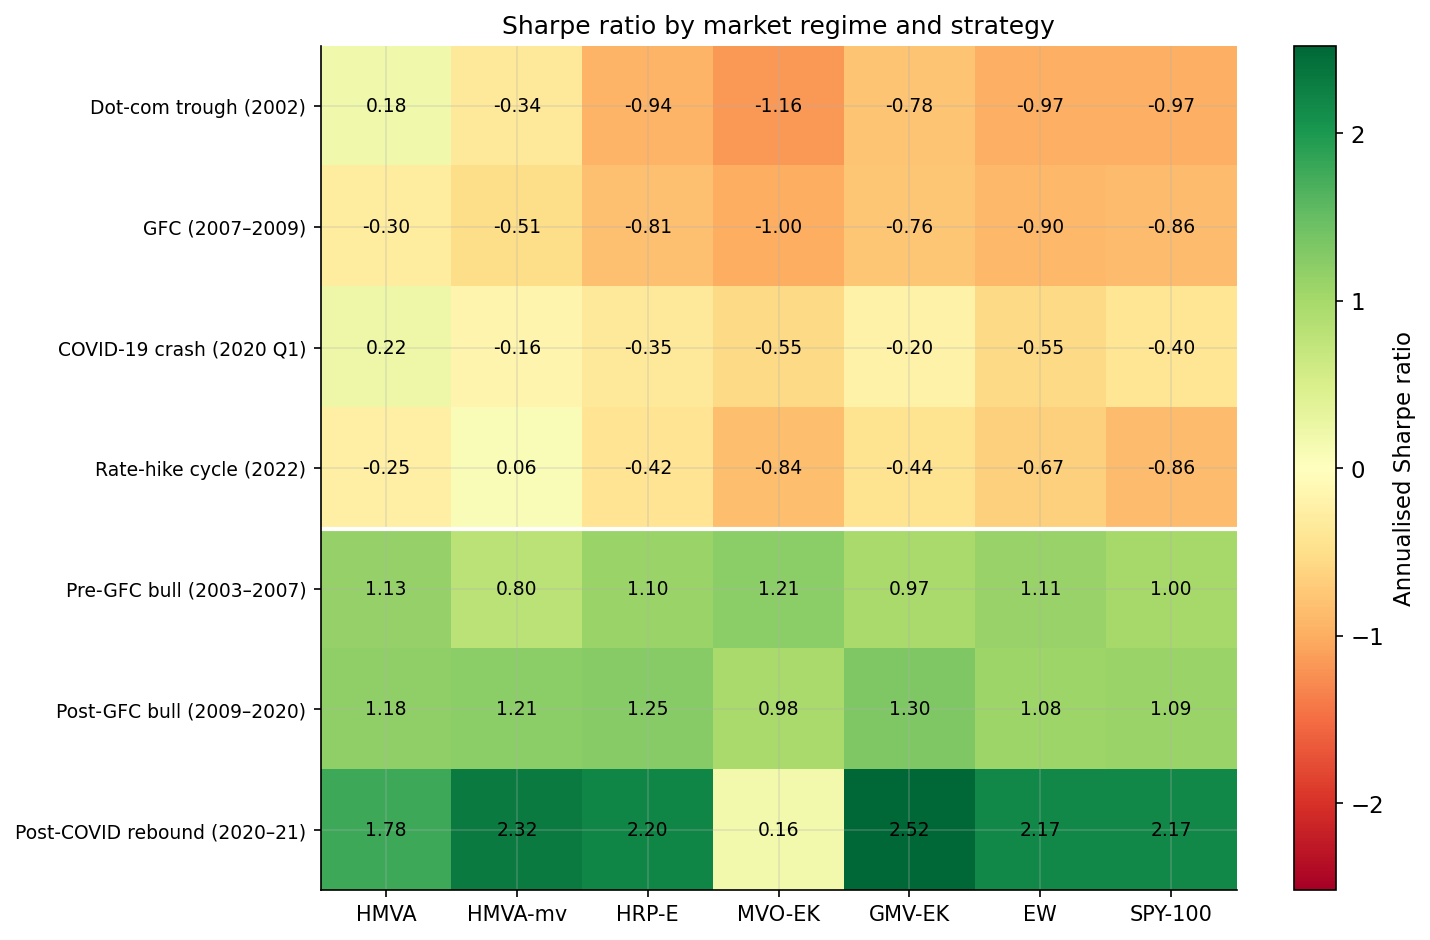
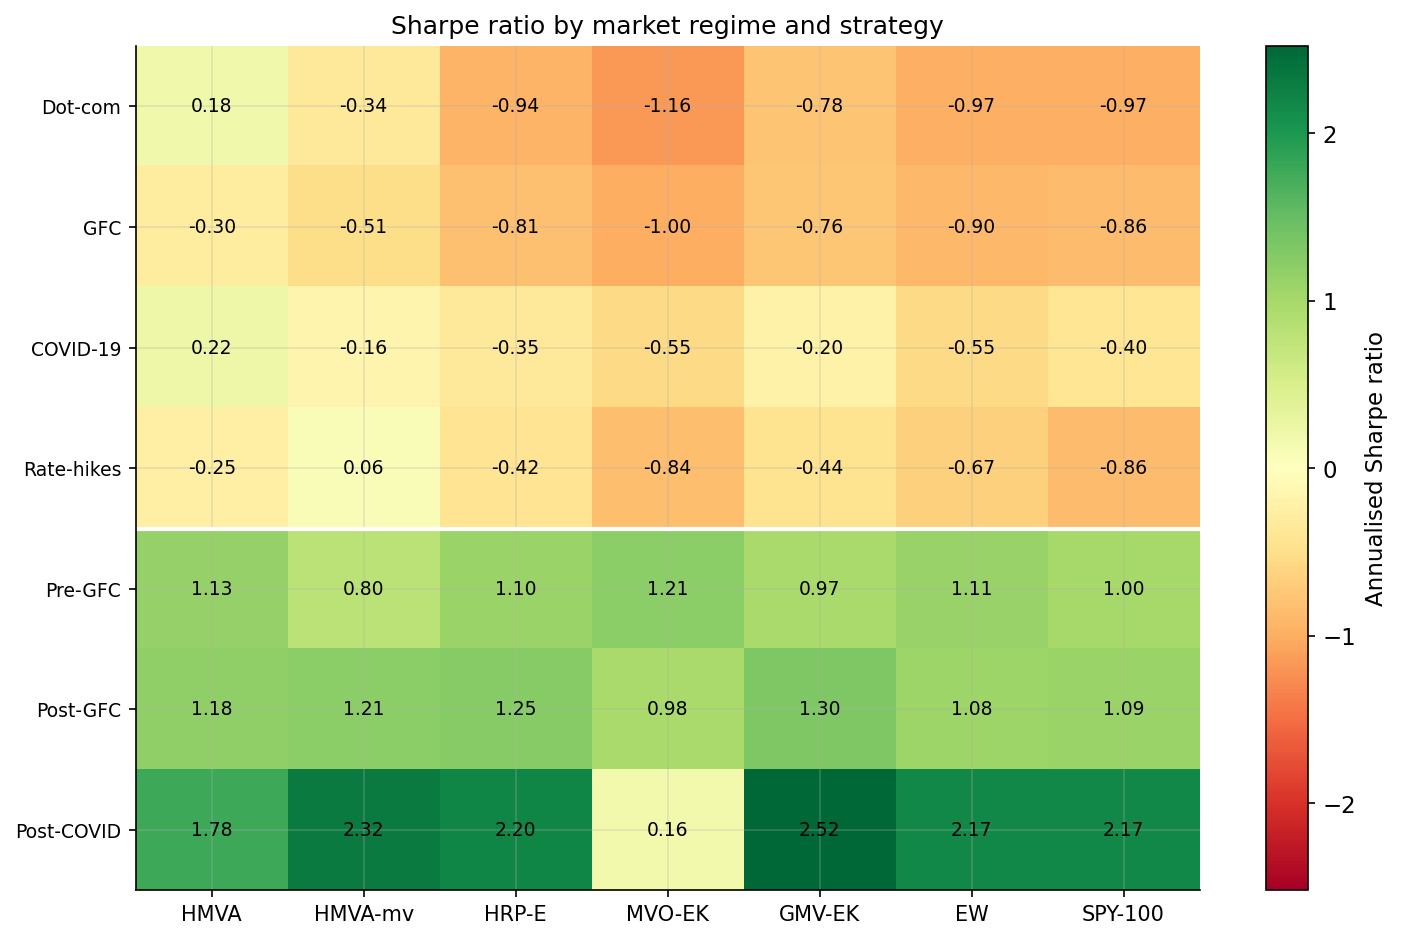
new

diff --git a/analysis/run_crisis_analysis.py b/analysis/run_crisis_analysis.py
@@ -24,16 +24,16 @@ SUBFOLDER = "base"
 STRATEGIES = ["HMVA", "HMVA-mv", "HRP-E", "MVO-EK", "GMV-EK", "EW", "SPY-100"]
 
 CRISIS_PERIODS: Dict[str, Tuple[str, str]] = {
-    "Dot-com trough\n(2002)":       ("2002-01-01", "2002-10-31"),
-    "GFC\n(2007–2009)":             ("2007-10-01", "2009-03-31"),
-    "COVID-19 crash\n(2020 Q1)":    ("2020-01-15", "2020-04-30"),
-    "Rate-hike cycle\n(2022)":      ("2022-01-01", "2022-12-31"),
+    "Dot-com":               ("2002-01-01", "2002-10-31"),
+    "GFC":                           ("2007-10-01", "2009-03-31"),
+    "COVID-19":    ("2020-01-15", "2020-04-30"),
+    "Rate-hikes":      ("2022-01-01", "2022-12-31"),
 }
 
 CALM_PERIODS: Dict[str, Tuple[str, str]] = {
-    "Pre-GFC bull\n(2003–2007)":     ("2003-01-01", "2007-09-30"),
-    "Post-GFC bull\n(2009–2020)":    ("2009-04-01", "2020-01-14"),
-    "Post-COVID rebound\n(2020–21)": ("2020-05-01", "2021-12-31"),
+    "Pre-GFC":     ("2003-01-01", "2007-09-30"),
+    "Post-GFC":    ("2009-04-01", "2020-01-14"),
+    "Post-COVID": ("2020-05-01", "2021-12-31"),
 }
 
 _CRISIS_SHADE = "#fce4e4"
@@ -166,11 +166,16 @@ def plot_crisis_equity(daily: pd.DataFrame, outdir: str) -> None:
         if sub.empty:
             ax.set_visible(False)
             continue
-        for col in sub.columns:
+        others = [c for c in sub.columns if c not in _FOCUS]
+        focus  = [c for c in sub.columns if c in _FOCUS]
+        for col in others:
             cum = (1 + sub[col]).cumprod()
-            lw  = 2.2 if col == "HMVA" else 1.2
             ax.plot(cum.index, cum.values,
-                    color=_col_color(col, daily.columns), lw=lw, label=col)
+                    color=_col_color(col, daily.columns), lw=1.0, alpha=0.45, label=col)
+        for col in focus:
+            cum = (1 + sub[col]).cumprod()
+            ax.plot(cum.index, cum.values,
+                    color=_col_color(col, daily.columns), lw=2.4, alpha=1.0, label=col, zorder=5)
         ax.axhline(1, color="black", lw=0.5, ls="--")
         ax.set_title(label.replace("\n", "  "), fontsize=10)
         ax.set_ylabel("Growth of $1")